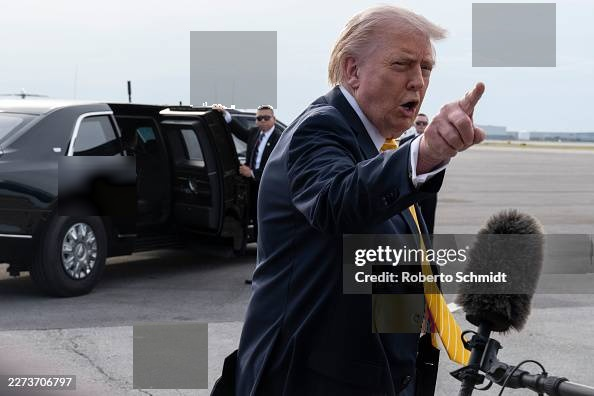
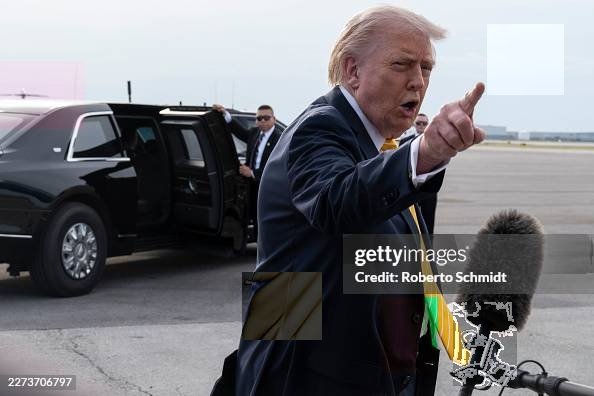
updted game state, with error handling while player makes mistake

diff --git a/game_state.py b/game_state.py
@@ -1,86 +1,143 @@
+"""
+HIT137 Assignment 3 — Game State
+Demonstrates OOP: inheritance, encapsulation, polymorphism.
+"""
+
 import math
 
+
+# ─────────────────────────────────────────────────────────────────────
+#  Base class — encapsulates shared game state and abstract interface
+# ─────────────────────────────────────────────────────────────────────
 class BaseGame:
-    """Parent class demonstrating inheritance and encapsulation."""
-    def __init__(self, regions):
-        self.regions = regions  # list of (x, y, w, h)
-        self.found_regions = []
-        self.mistakes = 0
+    """
+    Parent class demonstrating inheritance and encapsulation.
+    Defines the interface (polymorphic methods) that every game type
+    must implement.
+    """
 
-    def is_game_over(self):
-        """To be overridden by subclass (Polymorphism)"""
-        raise NotImplementedError("Subclass must implement abstract method")
+    def __init__(self, regions: list):
+        # Encapsulated state — child classes extend, not replace
+        self.regions       = regions      # all difference regions for this round
+        self.found_regions = []           # correctly identified regions
+        self.mistakes      = 0            # wrong-click counter
 
-    def is_level_complete(self):
-        """To be overridden by subclass (Polymorphism)"""
-        raise NotImplementedError("Subclass must implement abstract method")
+    # ── Polymorphic interface (overridden by GameState) ──────────────
 
-    def get_status(self):
-        """To be overridden by subclass (Polymorphism)"""
-        raise NotImplementedError("Subclass must implement abstract method")
+    def is_game_over(self) -> bool:
+        """Returns True when the player has used all allowed mistakes."""
+        raise NotImplementedError("Subclass must implement is_game_over()")
+
+    def is_level_complete(self) -> bool:
+        """Returns True when every difference has been found."""
+        raise NotImplementedError("Subclass must implement is_level_complete()")
+
+    def get_status(self) -> dict:
+        """Returns a snapshot of current game metrics."""
+        raise NotImplementedError("Subclass must implement get_status()")
 
 
+# ─────────────────────────────────────────────────────────────────────
+#  GameState — concrete game logic
+# ─────────────────────────────────────────────────────────────────────
 class GameState(BaseGame):
-    """Handles the core logic, tracking unfound differences and mistakes."""
-    MAX_MISTAKES = 3
-    PROXIMITY_RADIUS = 30
+    """
+    Handles all game logic:
+      - Proximity-based click validation
+      - Mistake tracking and lockout
+      - Per-round and cumulative scoring
+      - Reveal-all shortcut
+    """
 
-    def __init__(self, regions=None):
+    MAX_MISTAKES     = 3
+    PROXIMITY_RADIUS = 30   # pixels — how close a click must be to count
+
+    def __init__(self, regions: list = None):
         super().__init__(regions if regions else [])
-        self.cumulative_score = 0  # Tracked across multiple images [cite: 43]
-        self.unfound_regions = list(self.regions)
+        # Cumulative score persists across multiple loaded images
+        self.cumulative_score = 0
+        self.unfound_regions  = list(self.regions)
 
-    def reset(self, new_regions):
-        """Resets the state for a newly loaded image while keeping the cumulative score."""
-        self.regions = new_regions
+    # ── Round management ─────────────────────────────────────────────
+
+    def reset(self, new_regions: list):
+        """
+        Resets per-round state for a newly loaded image.
+        Cumulative score is intentionally preserved.
+        """
+        self.regions         = new_regions
         self.unfound_regions = list(new_regions)
-        self.found_regions = []
-        self.mistakes = 0
+        self.found_regions   = []
+        self.mistakes        = 0
+        # cumulative_score is NOT reset — carries over between images
 
-    def register_click(self, x, y):
-        """Validates click against unfound regions."""
+    # ── Click handling ───────────────────────────────────────────────
+
+    def register_click(self, x: int, y: int) -> tuple:
+        """
+        Validates a player click against all unfound regions.
+
+        Returns
+        -------
+        ("locked",         None)   — game over or level already complete
+        ("found",          region) — correct click, more to find
+        ("level_complete", region) — correct click, all differences found
+        ("game_over",      None)   — wrong click that exhausts mistakes
+        ("mistake",        None)   — wrong click, mistakes remaining
+        """
         if self.is_game_over() or self.is_level_complete():
             return "locked", None
 
-        # Check if click is within reasonable proximity to an unfound difference [cite: 44]
         for region in self.unfound_regions:
             rx, ry, rw, rh = region
-            
-            # Calculate the center of the region for distance checking
             cx = rx + rw / 2
             cy = ry + rh / 2
-            distance = math.sqrt((x - cx)**2 + (y - cy)**2)
-            
+            distance = math.sqrt((x - cx) ** 2 + (y - cy) ** 2)
+
             if distance <= self.PROXIMITY_RADIUS:
                 self.unfound_regions.remove(region)
                 self.found_regions.append(region)
                 self.cumulative_score += 1
-                
+
                 if self.is_level_complete():
                     return "level_complete", region
                 return "found", region
-                
-        # If no region matched, count as mistake [cite: 49]
+
+        # No region matched — count as a mistake
         self.mistakes += 1
         if self.is_game_over():
             return "game_over", None
         return "mistake", None
 
-    def reveal_all(self):
-        """Moves all unfound regions to revealed state."""
+    # ── Reveal shortcut ──────────────────────────────────────────────
+
+    def reveal_all(self) -> list:
+        """
+        Moves every unfound region into the revealed bucket and returns them
+        so the GUI can draw blue circles.  Remaining counter becomes 0.
+        """
         revealed = list(self.unfound_regions)
         self.unfound_regions.clear()
         return revealed
 
-    def is_game_over(self):
+    # ── Polymorphic overrides ─────────────────────────────────────────
+
+    def is_game_over(self) -> bool:
         return self.mistakes >= self.MAX_MISTAKES
 
-    def is_level_complete(self):
+    def is_level_complete(self) -> bool:
         return len(self.unfound_regions) == 0 and len(self.regions) > 0
 
-    def get_status(self):
+    def get_status(self) -> dict:
+        """
+        Returns all metrics the status bar and messages need.
+        'found' and 'total' are included so the game-over prompt can
+        report how many differences the player managed to find.
+        """
         return {
             "remaining": len(self.unfound_regions),
-            "mistakes": self.mistakes,
-            "score": self.cumulative_score
+            "found"    : len(self.found_regions),
+            "total"    : len(self.regions),
+            "mistakes" : self.mistakes,
+            "score"    : self.cumulative_score,
         }